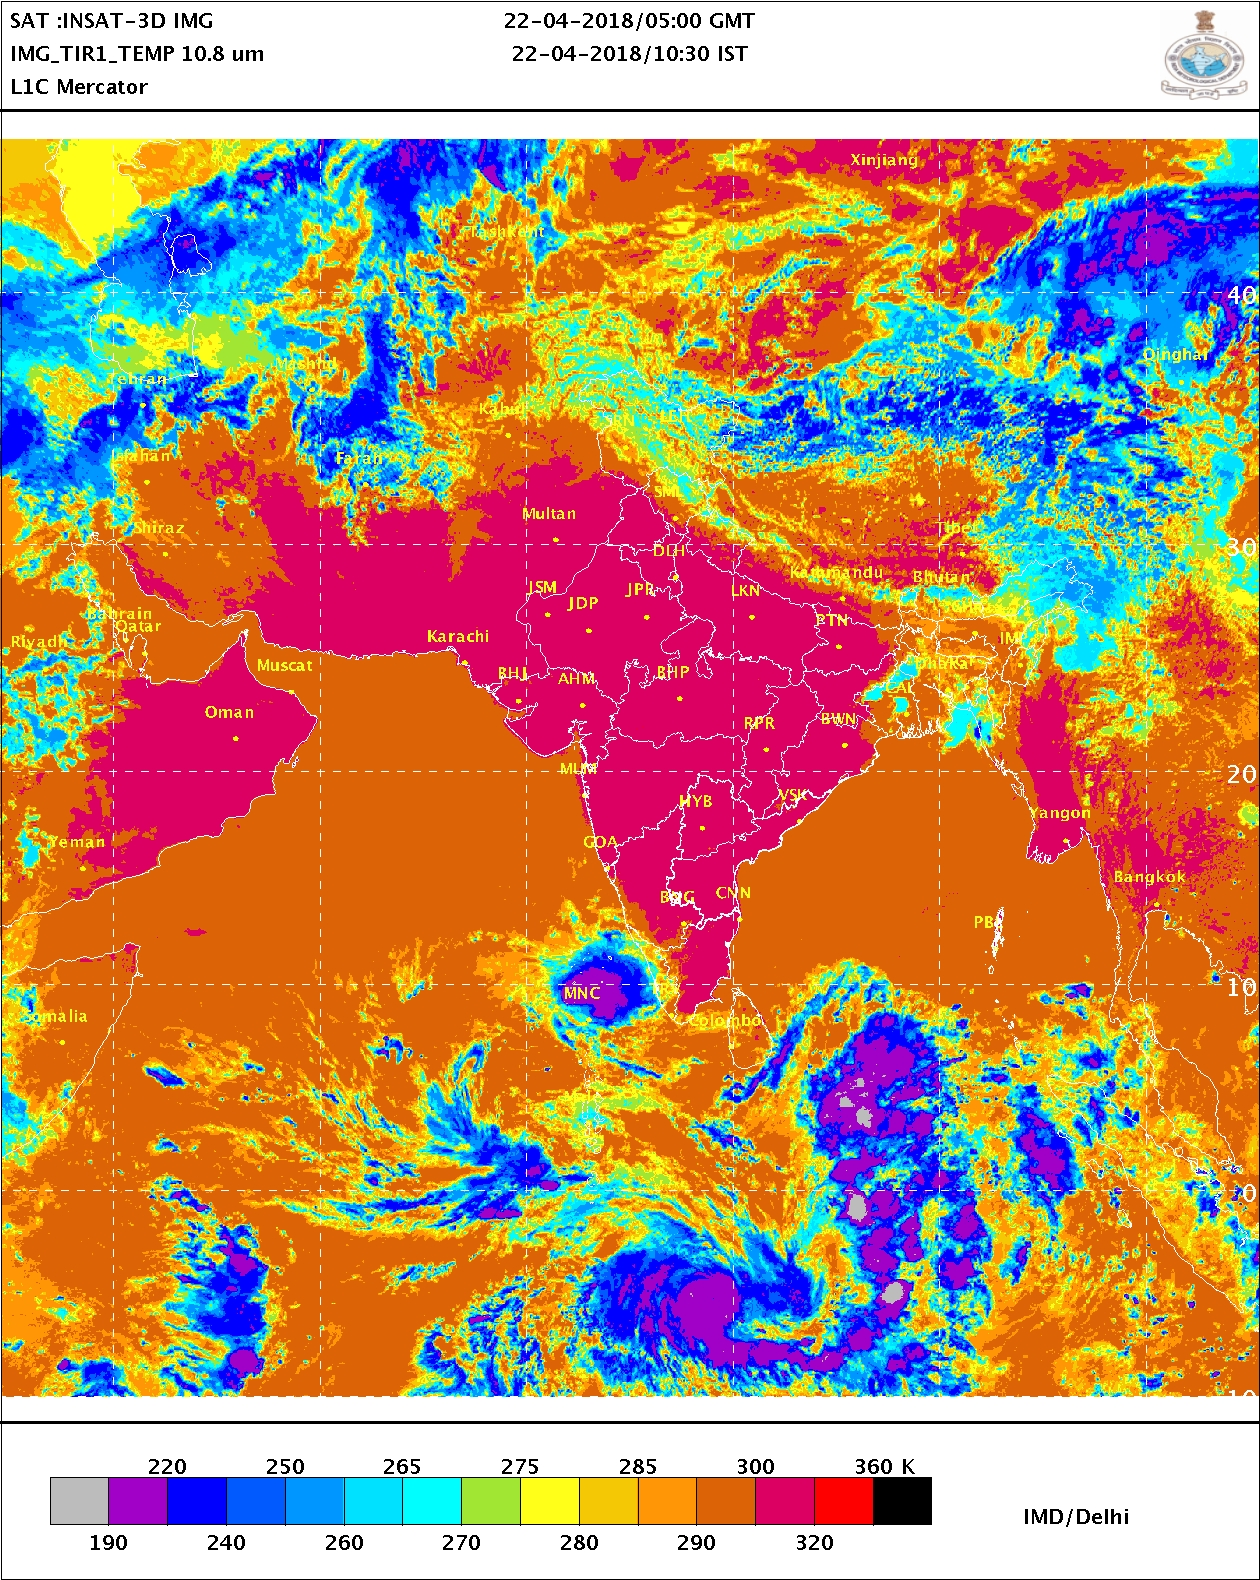
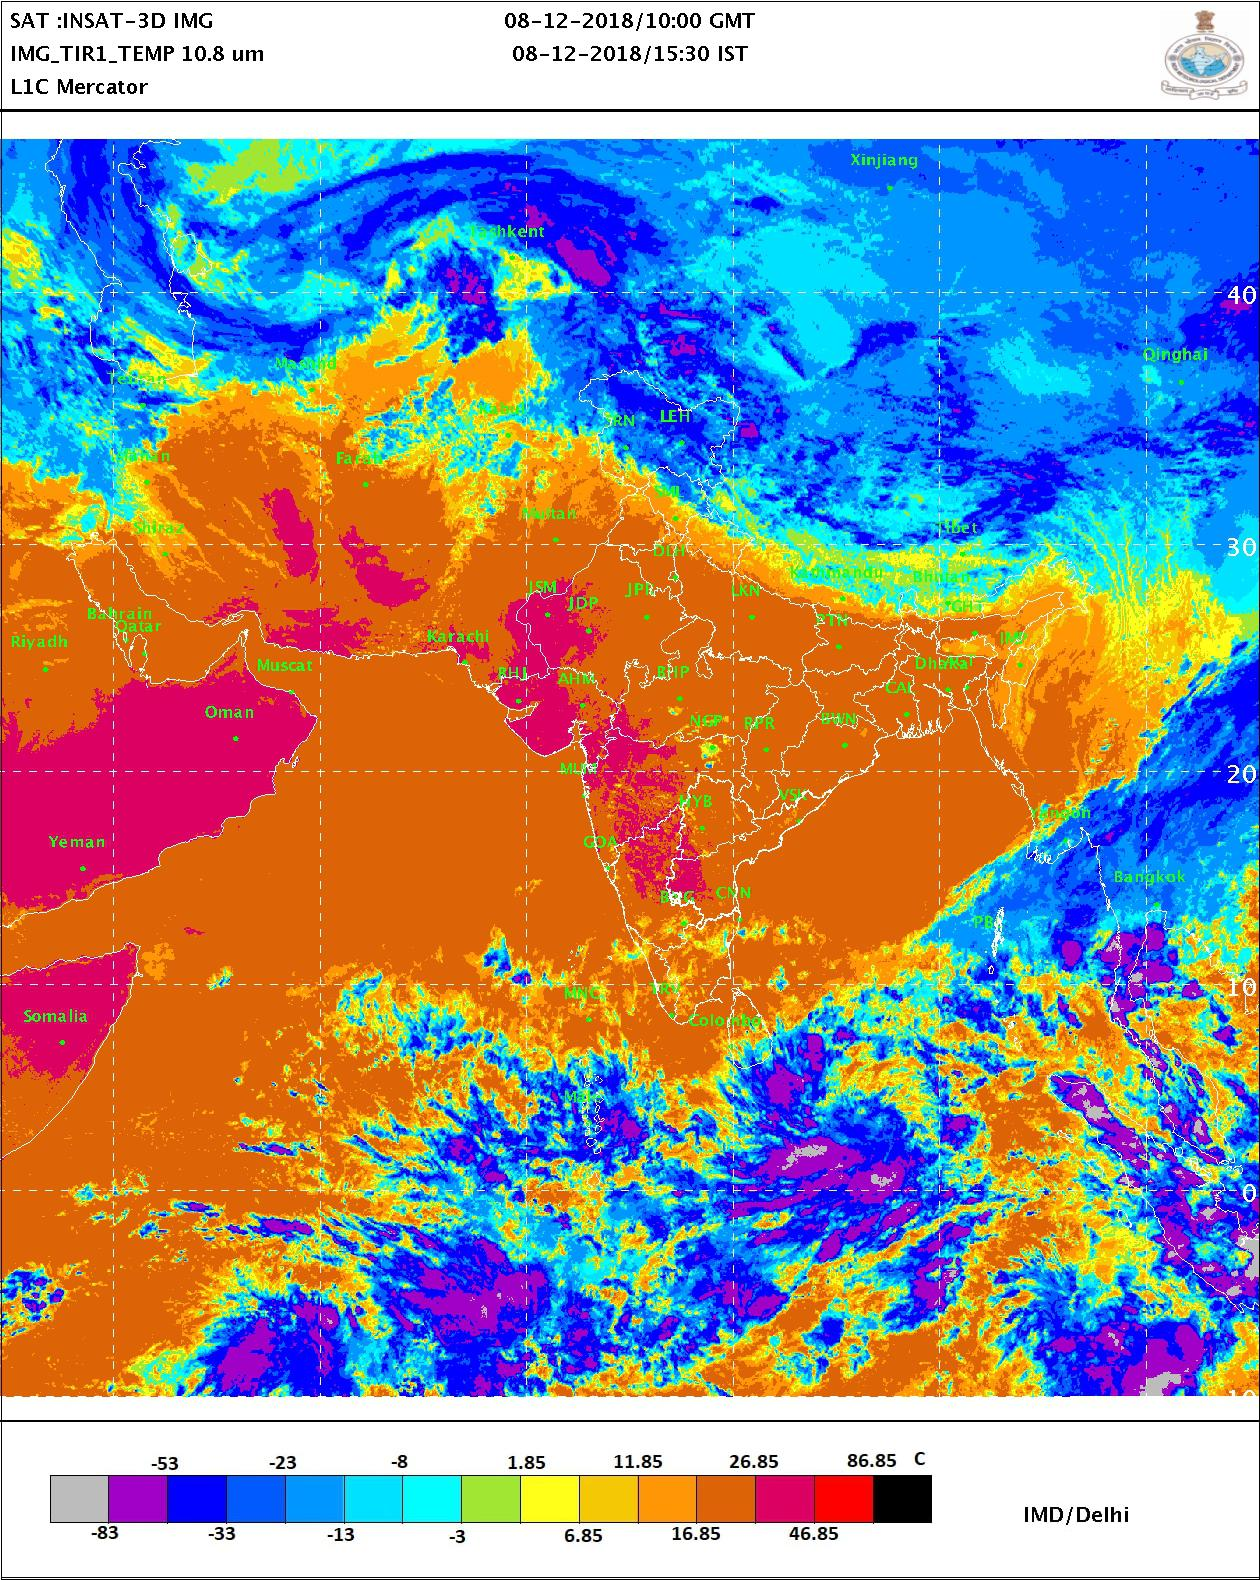
celcius overlay

diff --git a/cloudmap.py b/cloudmap.py
@@ -1,22 +1,29 @@
 #!/usr/bin/python3
 
-import urllib.request
+import requests
 import time
 import os
 import moviepy.editor as mpy
 
+from PIL import Image # imports image modulefrom Pillow 
+from io import BytesIO
+
 mapURL = 'http://satellite.imd.gov.in/img/3Dasiasec_bt1.jpg'
-currDir = '/home/avz/Documents/py/insat/'
+currDir = os.path.dirname(os.path.abspath('insat-clouds'))
 fps = 2
 gifName = 'animation.gif'
 
 def saveMap(count):
-	urllib.request.urlretrieve(mapURL, currDir + str(count) + '.jpg')
-
+	template = Image.open('celsius.jpg')
+	response = requests.get(mapURL)
+	img = Image.open(BytesIO(response.content))
+	img.paste(template, (0, 1420))
+	img.save(str(count) + '.jpg')
+	
 currentMap = 0
 
-if os.stat(currDir + 'maps.log').st_size:
-	with open(currDir + 'maps.log', 'r') as logfile:
+if os.stat(currDir + '/maps.log').st_size:
+	with open(currDir + '/maps.log', 'r') as logfile:
 		for line in logfile:
 			pass
 		currentMap = (int(line[-6]) + 1)%10
@@ -25,11 +32,11 @@ t = time.localtime()
 currTime = time.strftime('%b-%d-%Y_%R:%S', t)
 
 saveMap(currentMap)
-with open(currDir + 'maps.log', 'a') as logfile:
+with open(currDir + '/maps.log', 'a') as logfile:
 	logfile.write(currTime + ' ' + str(currentMap) + '.jpg\n')
 
 images = []
 for i in range(10):
-	images.append(currDir + str((currentMap - 9 + i)%10) + '.jpg')
+	images.append(currDir + '/' + str((currentMap - 9 + i)%10) + '.jpg')
 clip = mpy.ImageSequenceClip(images, fps=fps)
 clip.write_gif(currDir + gifName, fps=fps)
